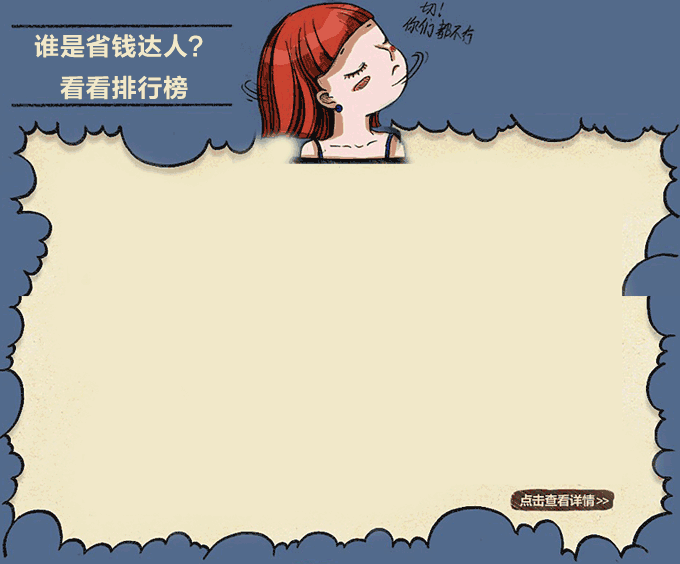
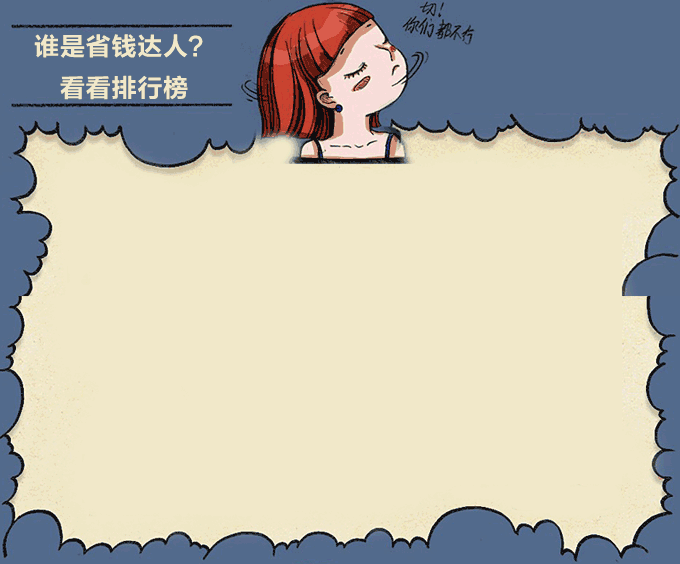
up ui

Changed region(s): [[0.7412, 0.844, 0.9265, 0.9344]]

diff --git a/tpl/sqds/index.html b/tpl/sqds/index.html
@@ -23,27 +23,27 @@
                 </div>
 
                 <div id="main">
-                    <span id="linktext"><a title="填抢宝贝功能问卷调查，赢取红米手机！" target="_blank" href=""><i class="icon-volume-up"></i>了解活动详情，查看比赛规则！</a> <a class="btn btn-primary" type="button" style="color:white">马上报名参赛</a></span>
+                    <span id="linktext"><a  href="<{spUrl c=sqds a=reg}>" target="_blank" class="btn btn-success btn-large" type="button" style="color:white">马上报名参赛</a></span>
+                    <div class="bmfs"></div>
 
                     <div class="phb">
+                         
                         <ul class="bbs_hot">
                             <li>
-                                <span class="badge badge-info">1</span>&nbsp;zcd**15@sina.com.cn  节省 ￥ 1478.00
+                                <img src="img/hg.png">即将开放，敬请期待...
                             </li>
                             <li>
-                                <span class="badge badge-warning">2</span>&nbsp;chiheige@126.com  节省 ￥ 1345.00
+                                <img src="img/hg2.png">
                             </li>
                             <li>
-                                <span class="badge badge-success">3</span>&nbsp;15638749539   节省 ￥ 478.00
+                                <img src="img/hg2.png">
                             </li>
                             <li>
-                                <span class="badge badge-inverse">4</span>&nbsp;def**uy@sina.com.cn  节省 ￥ 324.00
+                                <img src="img/hg2.png">
                             </li>
-                            <li>
-                                <span class="badge badge-inverse">5</span>&nbsp;zcd**iou5@sina.com.cn  节省 ￥ 258.00
-                            </li>
+                            
                             <li class="border_none">
-                                <span class="badge badge-inverse">6</span>&nbsp;kfd7**fek@sina.com.cn  节省 ￥78.00
+                                <img src="img/hg2.png">
                             </li>
                         </ul>
                     </div>
@@ -82,9 +82,7 @@
                             <li>
                                 <span class="badge badge-inverse">5</span>&nbsp;zcd**iou5@sina.com.cn  刚节省了￥ 258.00
                             </li>
-                            <li class="border_none">
-                                <span class="badge badge-inverse">6</span>&nbsp;kfd7**fek@sina.com.cn  刚节省了￥78.00
-                            </li>
+                            
                         </ul>
                         <h2 class="title">省钱秘籍</h2>
                         <dl class="news">

diff --git a/css/lbcss.css b/css/lbcss.css
@@ -236,10 +236,19 @@ body {
 .phb {
 	margin-bottom:-100px;
 	height: 564px;
-    margin-top: -130px;
+    margin-top: -318px;
     padding-left: 272px;
     padding-top: 346px;
 	background: url(../img/phb.png) no-repeat center;
+}
+
+.bmfs {
+	height: 515px;
+    margin-bottom: -103px;
+    margin-top: -239px;
+    padding-left: 272px;
+    padding-top: 346px;
+	background: url(../img/bmfs.png) no-repeat center;
 }
 
 .phbhot {
@@ -363,7 +372,7 @@ body {
 }
 .bbs_hot li {
 	width: 420px;
-	height: 38px;
+	height: 46px;
 	line-height: 38px;
 	border-bottom: 1px solid #ccc;
 	font-size: 16px;
